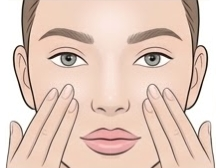
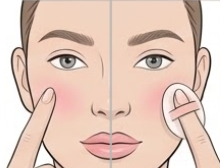
reco images missing improved (hopefully)

diff --git a/mobile/lib/page_9_analyzing_result/analyzing_result.dart b/mobile/lib/page_9_analyzing_result/analyzing_result.dart
@@ -129,6 +129,7 @@ class _AnalyzingResultScreenState extends State<AnalyzingResultScreen> {
                   'subtitle': s.description,
                   'description': s.description,
                   'matchPct': s.matchPct.toString(),
+                  'imagePath': 'assets/makeup_styles/${s.styleKey.replaceAll('_', '-')}-makeup.jpg',
                 })
             .toList();
       }
@@ -156,6 +157,7 @@ class _AnalyzingResultScreenState extends State<AnalyzingResultScreen> {
           'description':
               'Glowing, hydrated skin, groomed brows, and a subtle flush. '
                   'Glass skin meets fluffy brows and a juicy dewy pout.',
+          'imagePath': 'assets/makeup_styles/clean-girl-makeup.jpg',
         },
         {
           'name': 'Peach Makeup',
@@ -163,6 +165,7 @@ class _AnalyzingResultScreenState extends State<AnalyzingResultScreen> {
           'description':
               'Monochromatic warm look tying eyes, cheeks, and lips in peach, '
                   'coral, and golden copper — a cohesive sun-kissed flush.',
+          'imagePath': 'assets/makeup_styles/peach-makeup.jpg',
         },
         {
           'name': 'Soft Glam Everyday',
@@ -170,6 +173,7 @@ class _AnalyzingResultScreenState extends State<AnalyzingResultScreen> {
           'description':
               'Subtle smoky eye in warm neutrals, sculpted cheeks, defined '
                   'lashes, and a satin lip. Elevated but never overdressed.',
+          'imagePath': 'assets/makeup_styles/soft-glam-everyday.jpg',
         },
       ];
 
